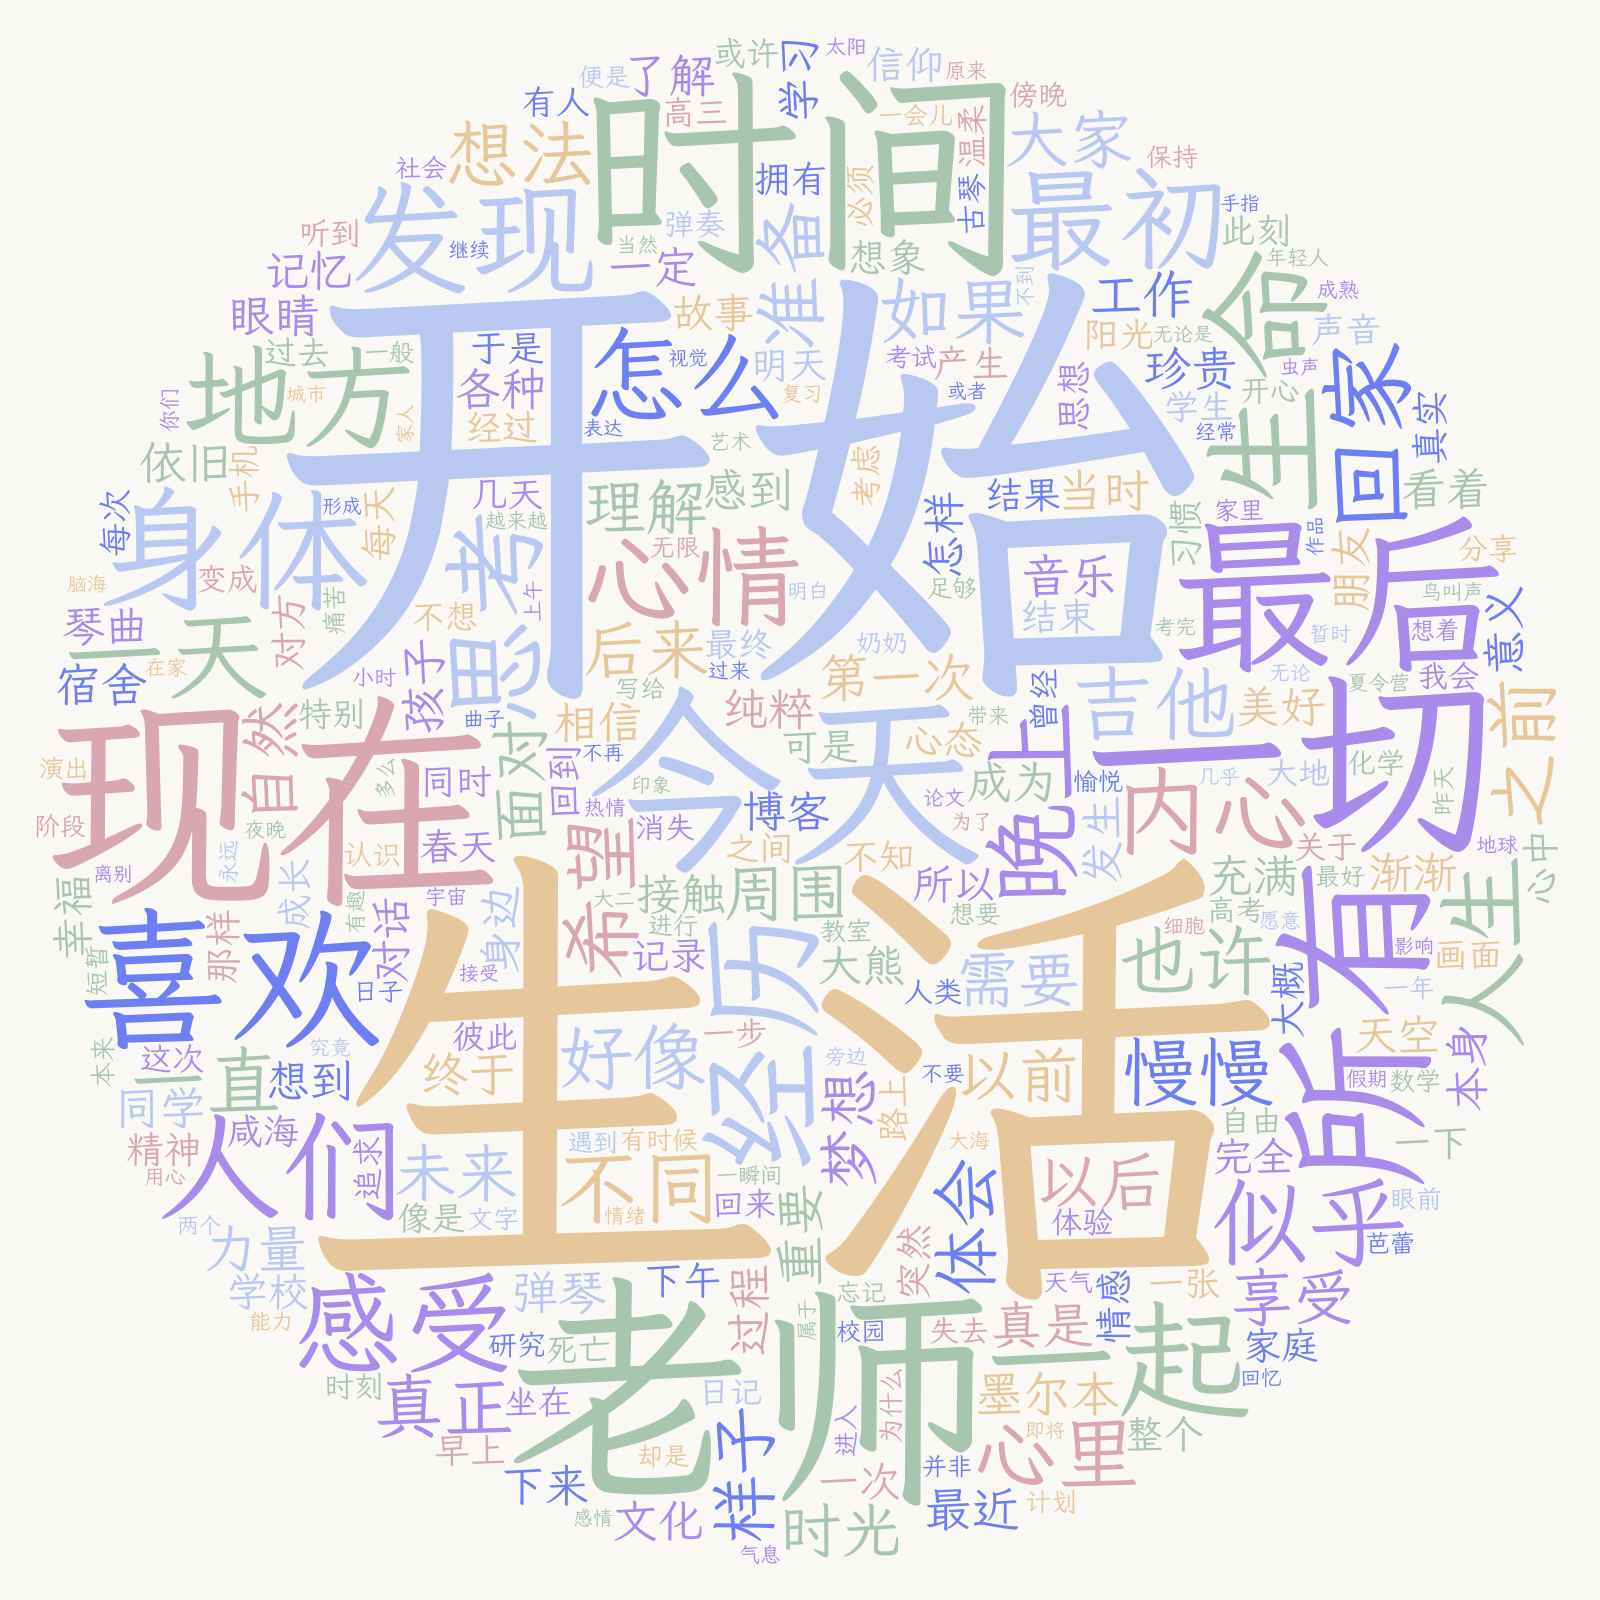
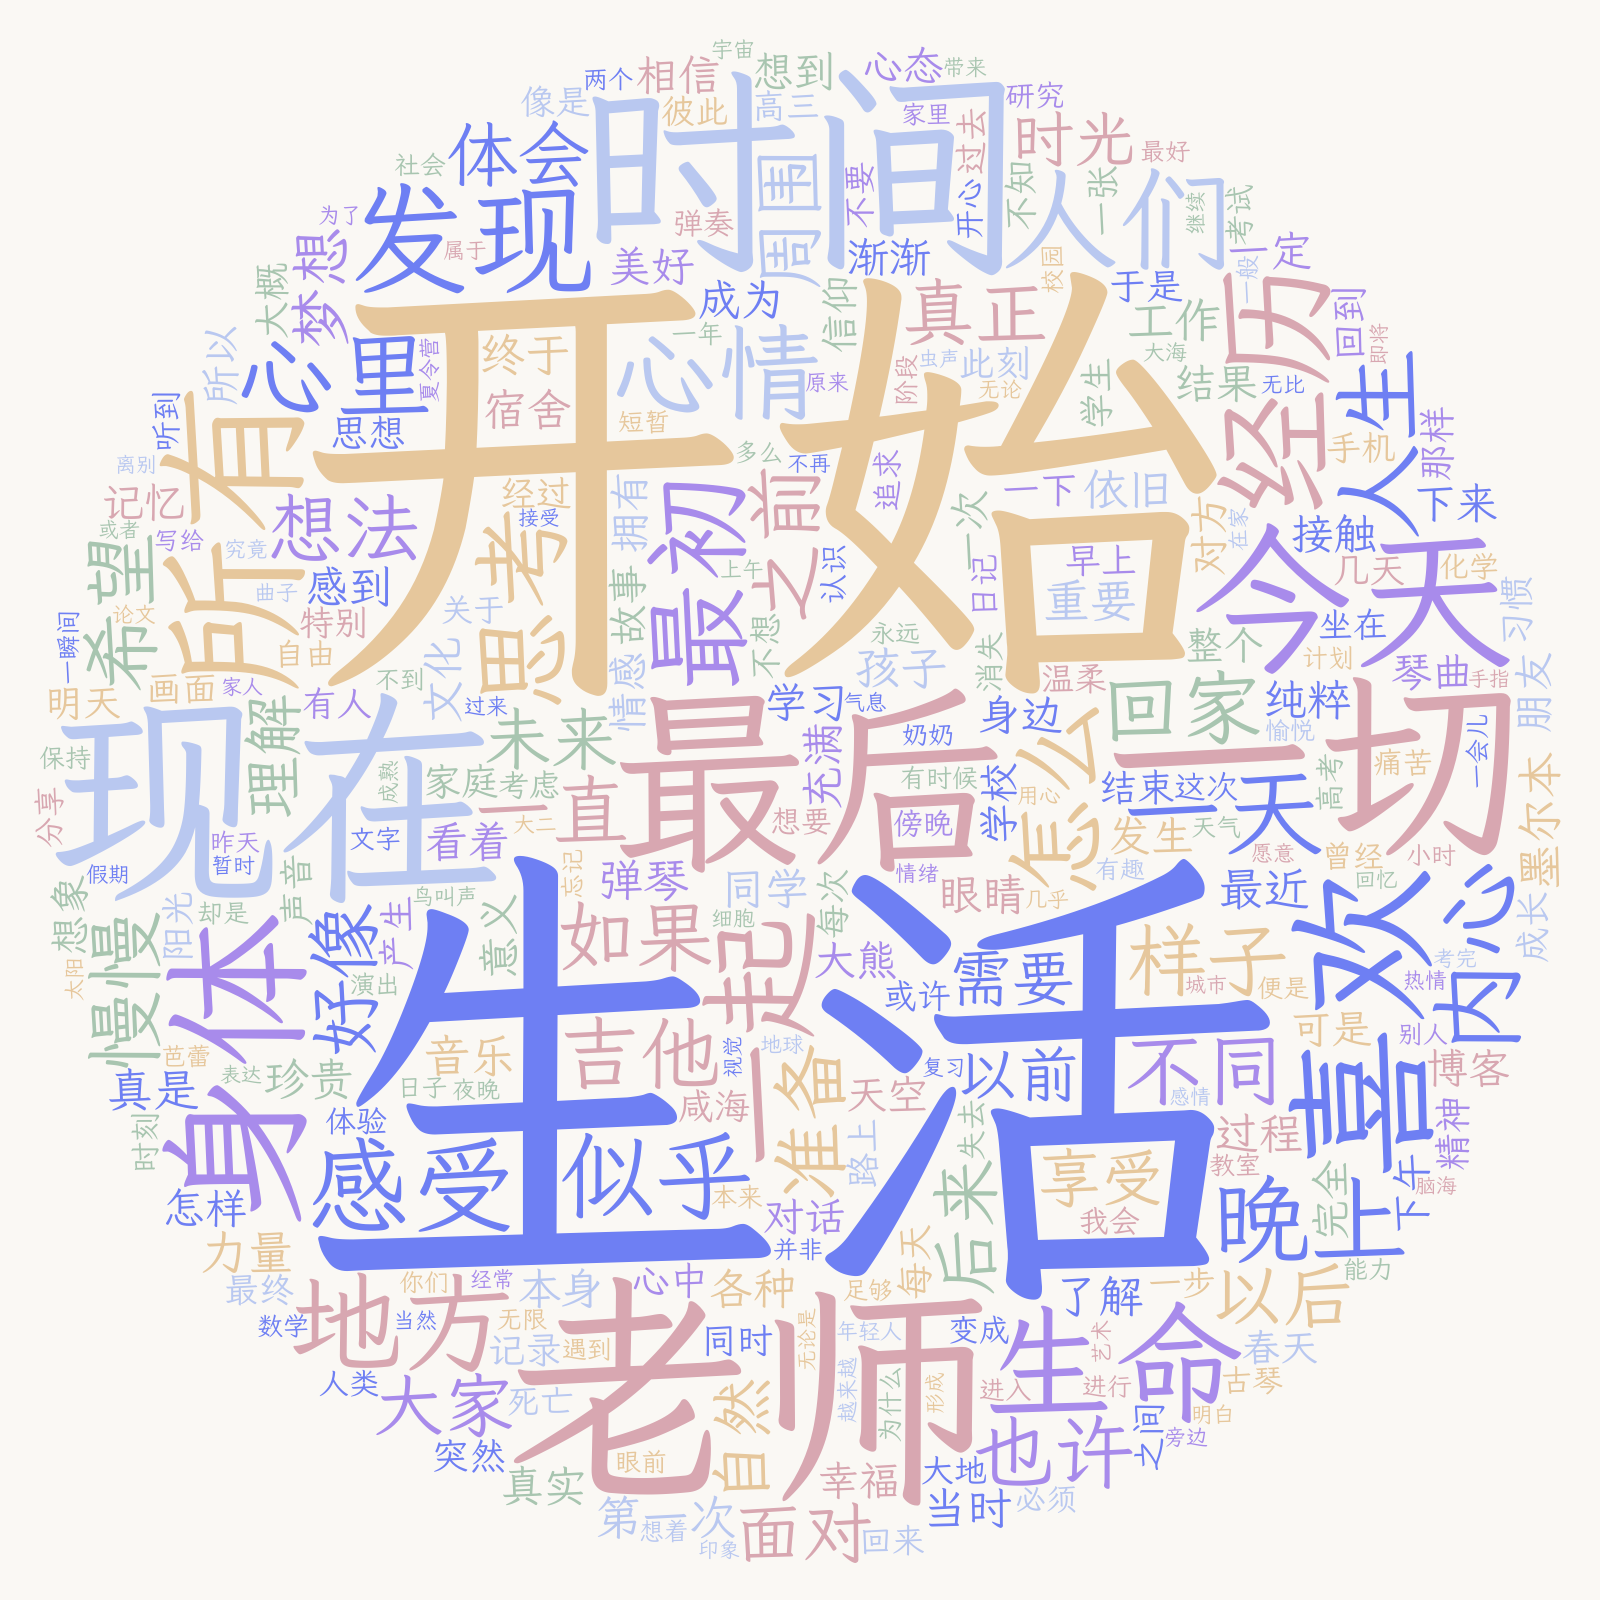
update notes

diff --git a/quartz.layout.ts b/quartz.layout.ts
@@ -30,7 +30,7 @@ export const defaultContentPageLayout: PageLayout = {
     // ✅ 最新笔记（放在 HomeBanner 和 index.md 中间）
     Component.RecentNotes({
       title: "最新笔记",
-      limit: 8,
+      limit: 10,
     }),
     Component.ConditionalRender({
   component: Component.Breadcrumbs(),

diff --git a/content/日记/狼狈.md b/content/日记/狼狈.md
@@ -1,0 +1,12 @@
+---
+title: 狼狈
+date: 2026-07-21T10:57
+lastmod: 2026-07-21T10:57
+---
+做事情的时候应该狼狈一点才好，不用硬要装出自己游刃有余和处事不惊的态度。
+
+比如在等车时候焦急的心情，在迟迟等不到消息时候的睡不好，在自己失策没经验太弱结果吃亏失败时候的郁闷，还有急于抱紧救命稻草时候的死皮赖脸，别人操心，失望，指责你附带的双重压力带给你的愁眉苦脸，你的狼狈在这时候一览无余，但这些都是生活里真实的样子。就像长跑考试最后一圈自己边流鼻涕边挣扎着向前结果腿又抽筋的模样。
+
+不要苛责和打压自己。你想要拼命遮盖狼狈，觉得这不是你真实的水平，殊不知你越遮掩，越痛苦，以至于白白消耗的心里的能量。如果狼狈了，那就好好狼狈吧，哪怕跺跺脚，骂一骂，哭一哭，让自己真实的样子尽情绽放，不要太在意自己在别人面前的样子，不要想你焦虑的丑脸会不会在别人面前失了面子，会不会让心爱的人觉得你不可靠。停下盘算自己此刻的得失吧，一切的一切，最后都是岁月里的细小沙子，周围人如过客，你的岁月终究还是你的，任何人都无法言说，评价，占有。
+
+你拥有的思想，观点，私密的情感，哪怕微不足道，幼稚无比，都是你自己的宝藏，最后回归平静，没有是非之分。

diff --git a/content/all-notes.md b/content/all-notes.md
@@ -1,7 +1,8 @@
 ---
 title: 总览
 ---
-2026-07-19 — [[梦里的心绪]] 
+2026-07-21 — [[狼狈]] 
+<br>2026-07-19 — [[梦里的心绪]] 
 <br>2026-07-16 — [[解决问题要熬过一开始的痛苦]] 
 <br>2026-07-12 — [[远离消耗自己的“是非场”]]
 <br>2026-07-08 — [[如常就好]]
